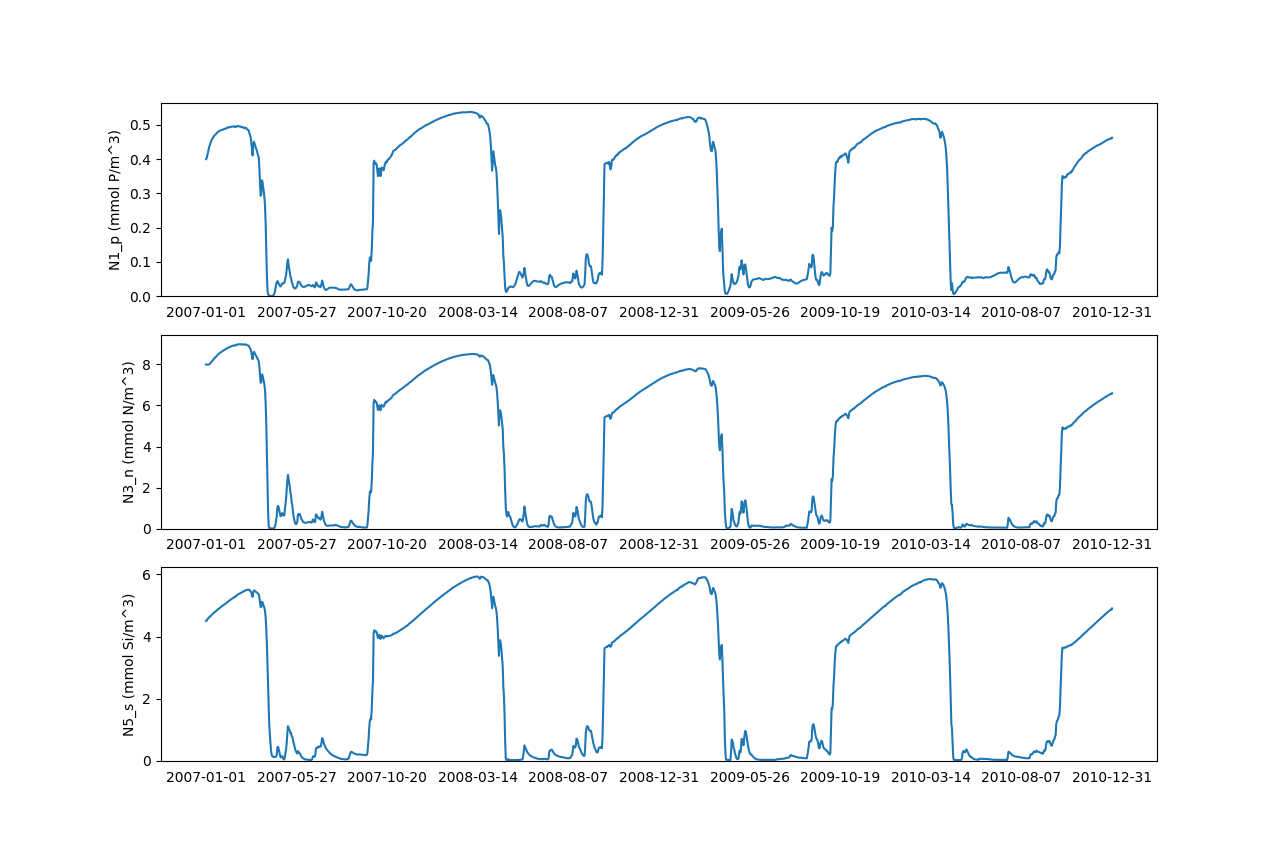
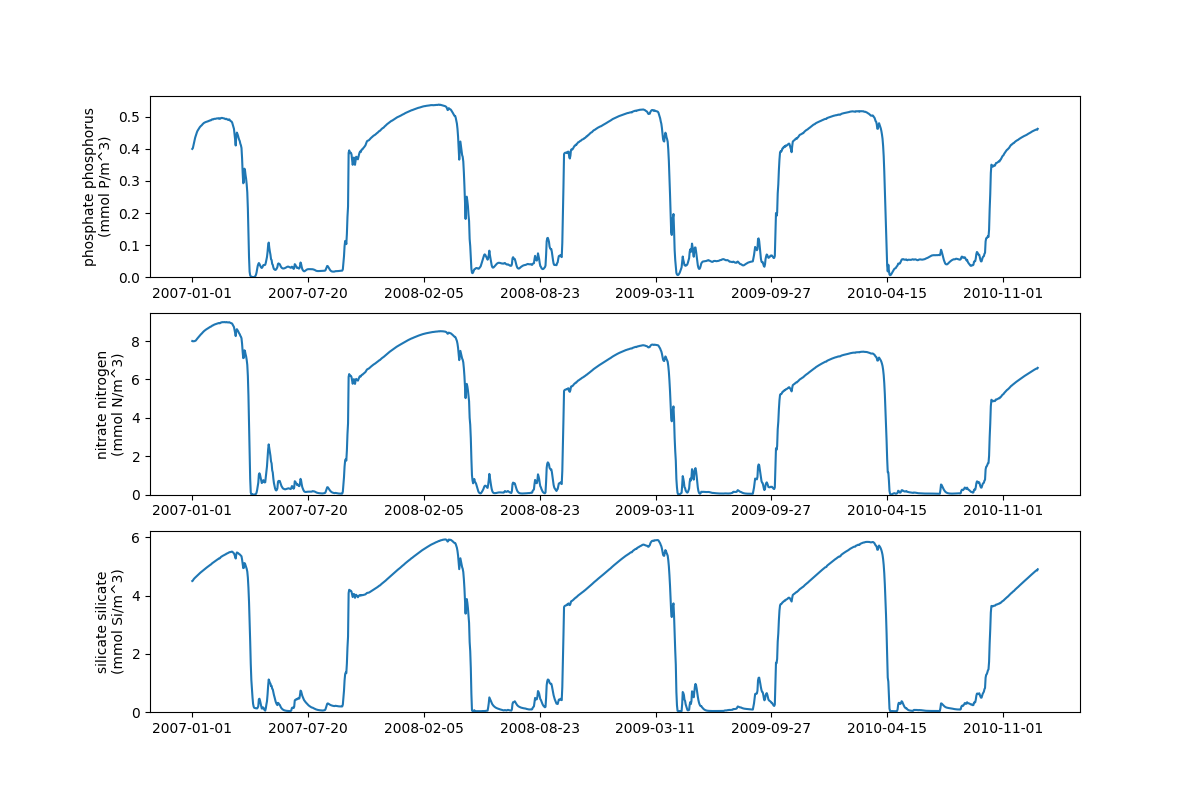
Adding aquarium fabm0d tutorial

diff --git a/github-actions/gotm-fabm-ersem/gotm-tut.py b/github-actions/gotm-fabm-ersem/gotm-tut.py
@@ -1,8 +1,10 @@
 import argparse
-from matplotlib import pyplot as plt
+import matplotlib.pyplot as plt
+from matplotlib import ticker
 import numpy as np
 import os
 import sys
+import re
 
 
 parser = argparse.ArgumentParser()
@@ -18,6 +20,9 @@ except ImportError:
     sys.exit()
 
 def plot_time_series(axes, data, depth, model_var_name):
+    # sets the maximum number of labels on the x axis to be 10
+    xticks = ticker.MaxNLocator(10)
+
     times = data.variables['time']
     dates = nc.num2date(times[:],
                         units=times.units,
@@ -27,6 +32,9 @@ def plot_time_series(axes, data, depth, model_var_name):
     zi = data.variables['zi'][:].squeeze()
     var = data.variables[model_var_name]
 
+    long_label = '{} ({})'.format(var.long_name, var.units)
+    y_label = re.sub(r'(\s\S*?)\s', r'\1\n',long_label)
+
     # Interpolate variable data to the given depth below the moving free surface
     var_time_series = []
     for i in range(var.shape[0]):
@@ -35,11 +43,8 @@ def plot_time_series(axes, data, depth, model_var_name):
         var_time_series.append(np.interp(depth_offset, z[i, :], var[i, :].squeeze()))
     dates = [str(d).split(" ")[0] for d in dates]
     axes.plot(dates, var_time_series)
-    axes.set_ylabel('{} ({})'.format(model_var_name, var.units))
-    for i, t in enumerate(axes.get_xticklabels()):
-        if (i % np.floor(len(dates)/10)) != 0:
-            t.set_visible(False)
-    axes.xaxis.set_ticks_position('none')
+    axes.set_ylabel(y_label)
+    axes.xaxis.set_major_locator(xticks)
 
 
 model_file_name = "L4_time_daily_mean_16.06.nc"
@@ -52,6 +57,9 @@ data.set_auto_maskandscale(True)
 depth = 0.0
 
 fig, ax_arr = plt.subplots(3,1)
+DPI = fig.get_dpi()
+fig.set_size_inches(1200.0/float(DPI),800.0/float(DPI))
+
 plot_time_series(ax_arr[0], data, depth, 'N1_p')
 
 # Nitrate and nitrite

diff --git a/github-actions/fabm0d-gotm-ersem/aquarium-tut.py b/github-actions/fabm0d-gotm-ersem/aquarium-tut.py
@@ -1,0 +1,59 @@
+import argparse
+import matplotlib.pylab as plt
+from matplotlib import ticker
+import numpy as np
+import datetime
+import re
+import sys
+
+
+try:
+    import netCDF4 as nc
+except ImportError:
+    print("Please install the Python interface to netCDF")
+    sys.exit()
+
+def plot_var(axes, x, y, label):
+    # sets the maximum number of labels on the x axis to be 10
+    xticks = ticker.MaxNLocator(10)
+
+    var = data.variables[label]
+    y = var[:].squeeze()
+
+    long_label = '{} ({})'.format(var.long_name, var.units)
+    y_label = re.sub(r'(\s\S*?)\s', r'\1\n',long_label)
+
+    axes.plot(x, y)
+    axes.set_ylabel(y_label)
+    axes.xaxis.set_major_locator(xticks)
+
+parser = argparse.ArgumentParser()
+parser.add_argument('-p', '--model-path', type=str, required=True,
+                    help='Path to FABM0D-ERSEM output')
+args, _ = parser.parse_known_args()
+model_path = args.model_path
+
+data = nc.Dataset(model_path, 'r')
+
+times = data.variables['time']
+dates = nc.num2date(times[:],
+                    units=times.units,
+                    calendar=times.calendar)
+dates = [str(d).split(" ")[0] for d in dates]
+
+input_data = ["light_parEIR", "temp", "salt"]
+fig, ax_arr = plt.subplots(len(input_data), 1)
+DPI = fig.get_dpi()
+fig.set_size_inches(1200.0/float(DPI),800.0/float(DPI))
+for ax, label in zip(ax_arr, input_data):
+    plot_var(ax, dates, data, label)
+fig.suptitle("Input data")
+
+input_data = ["N1_p", "N3_n", "B1_c", "P2_c"]
+fig, ax_arr = plt.subplots(len(input_data), 1)
+DPI = fig.get_dpi()
+fig.set_size_inches(1200.0/float(DPI),800.0/float(DPI))
+for ax, label in zip(ax_arr, input_data):
+    plot_var(ax, dates, data, label)
+fig.suptitle("Output data")
+plt.show()

diff --git a/docs/source/tutorials/fabm0d.rst b/docs/source/tutorials/fabm0d.rst
@@ -26,30 +26,38 @@ To install FABM0d-GOTM-ERSEM we suggest you use the following script below
 Running FABM0d
 ~~~~~~~~~~~~~~
 
-To use the driver, you need a configuration file can ``run.nml``, which you
-could take from ``<SOURCEDIR>/fabm/testcases/0d/run.nml``. In addition,
-you need a file with forcing data for surface shortwave radiation,
-temperature and salinity, e.g.,
-``<SOURCEDIR>/fabm/testcases/0d/env_nns_annual.dat``. The local name of
-this file is configured in ``run.nml``, variable ``env_file``. Finally,
-you can provide additional forcing with a ``input.yaml`` file, which can
-contain entries such as
 
-::
+To run the model, you must first obtain or generate a set of input or 
+forcing files. Setups for the L4 site  are stored under version control 
+and can be accessed here. 
 
-   wind_speed:
-     file: wind.dat
-     column: 1
-     scale_factor: 1.0
-   absorption_of_silt:
-     constant_value: 0.07
-   mole_fraction_of_carbon_dioxide_in_air:
-     constant_value: 411.29
-   bottom_stress:
-     constant_value: 0.0
+To run the tutorial, you will first need to clone the configuration files
+and then run `FABM0d`. This is done with the following:
 
-This specifies that wind speed must be read from file wind.dat (first
-column, no scaling), the light absorption by silt must be set to a
-constant value of 0.07 m-1, atmospheric pCO2 to 411.29 ppm, and bottom
-stress to 0 Pa. The “column” and “scale_factor” attributes in the case
-of wind_speed are optional. They default to 1 and 1.0, respectively.
+.. literalinclude:: ../../../github-actions/fabm0d-gotm-ersem/aquarium-tut-config-setup.sh
+    :language: bash
+    :linenos:
+.. note::
+    The following script requires ``matplotlib``, ``netCDF`` and ``numpy`` to be 
+    installed. This can easily be done via ``pip`` in the following way:
+
+    .. code-block:: bash
+        
+        python -m pip install matplotlib numpy netCDF
+
+
+To visualise the results, we again use a python script. Running the script you will need
+to add a commandline argument ``--model-path`` which is the path to the output from
+the FABM0d run.
+
+.. literalinclude:: ../../../github-actions/fabm0d-gotm-ersem/aquarium-tut.py
+    :language: python
+    :linenos:
+
+.. image:: ../../images/aquarium_in_fig.png
+   :alt: Example FABM0d input data
+   :width: 100.0%
+
+.. image:: ../../images/aquarium_out_fig.png
+   :alt: Example FABM0d output
+   :width: 100.0%
